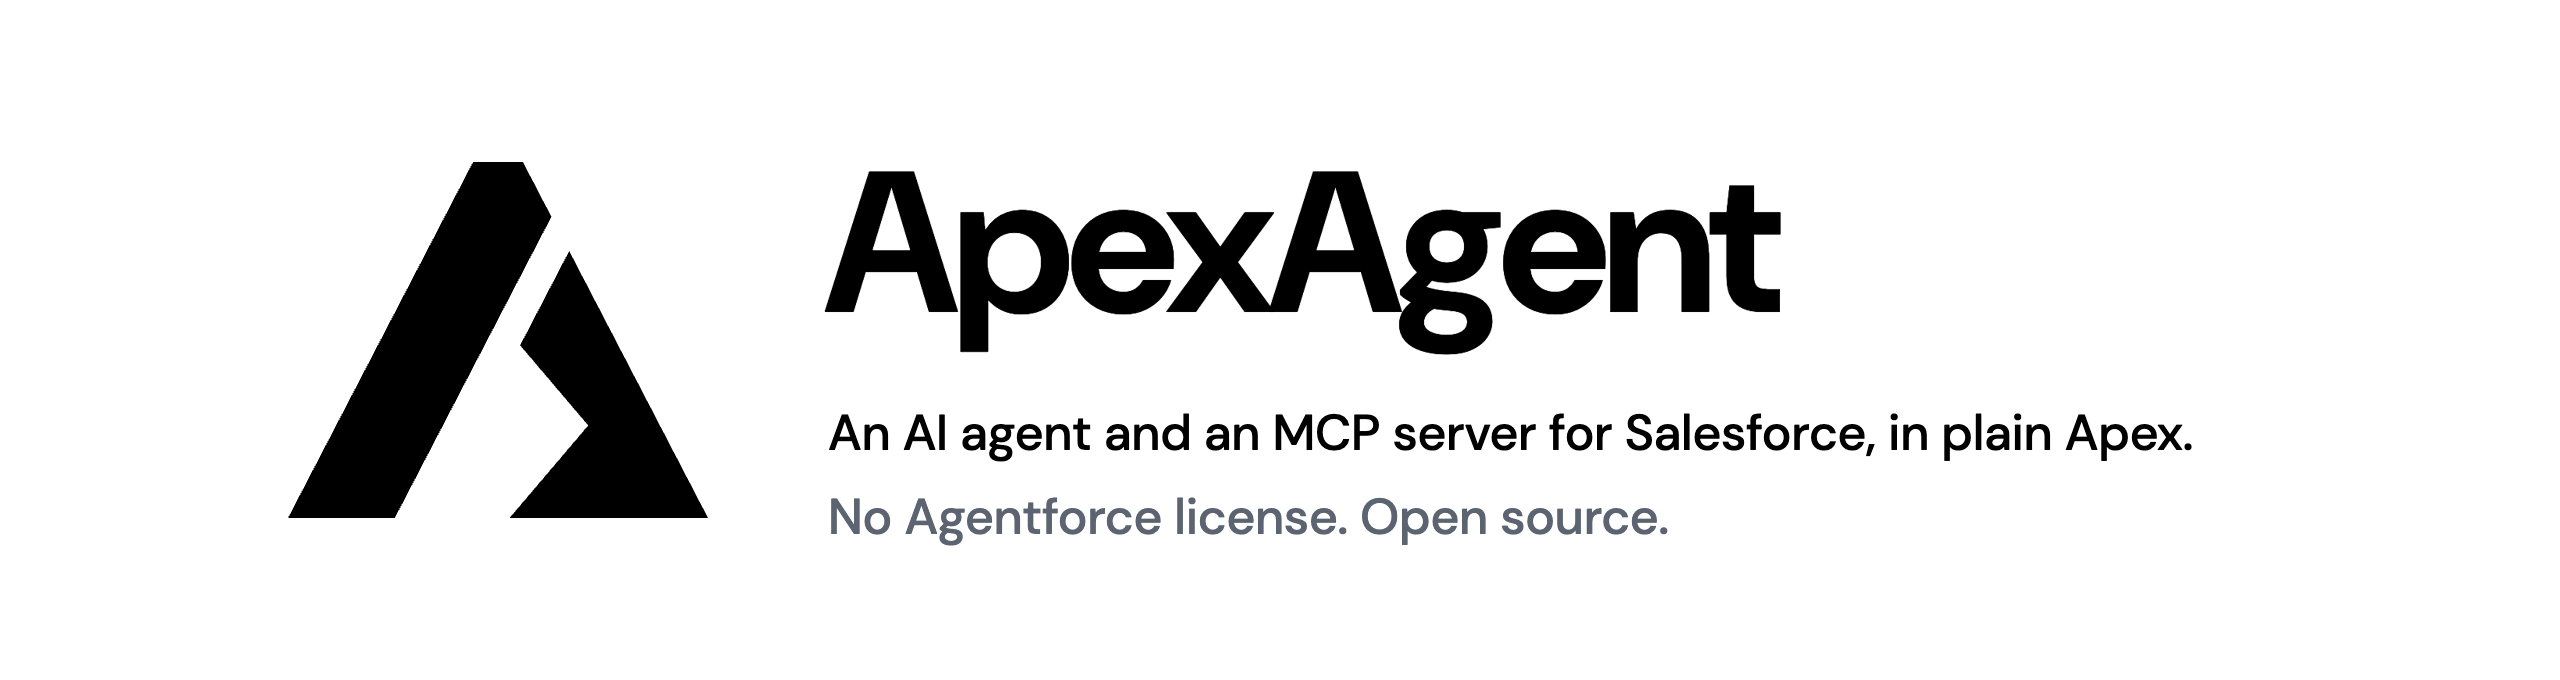
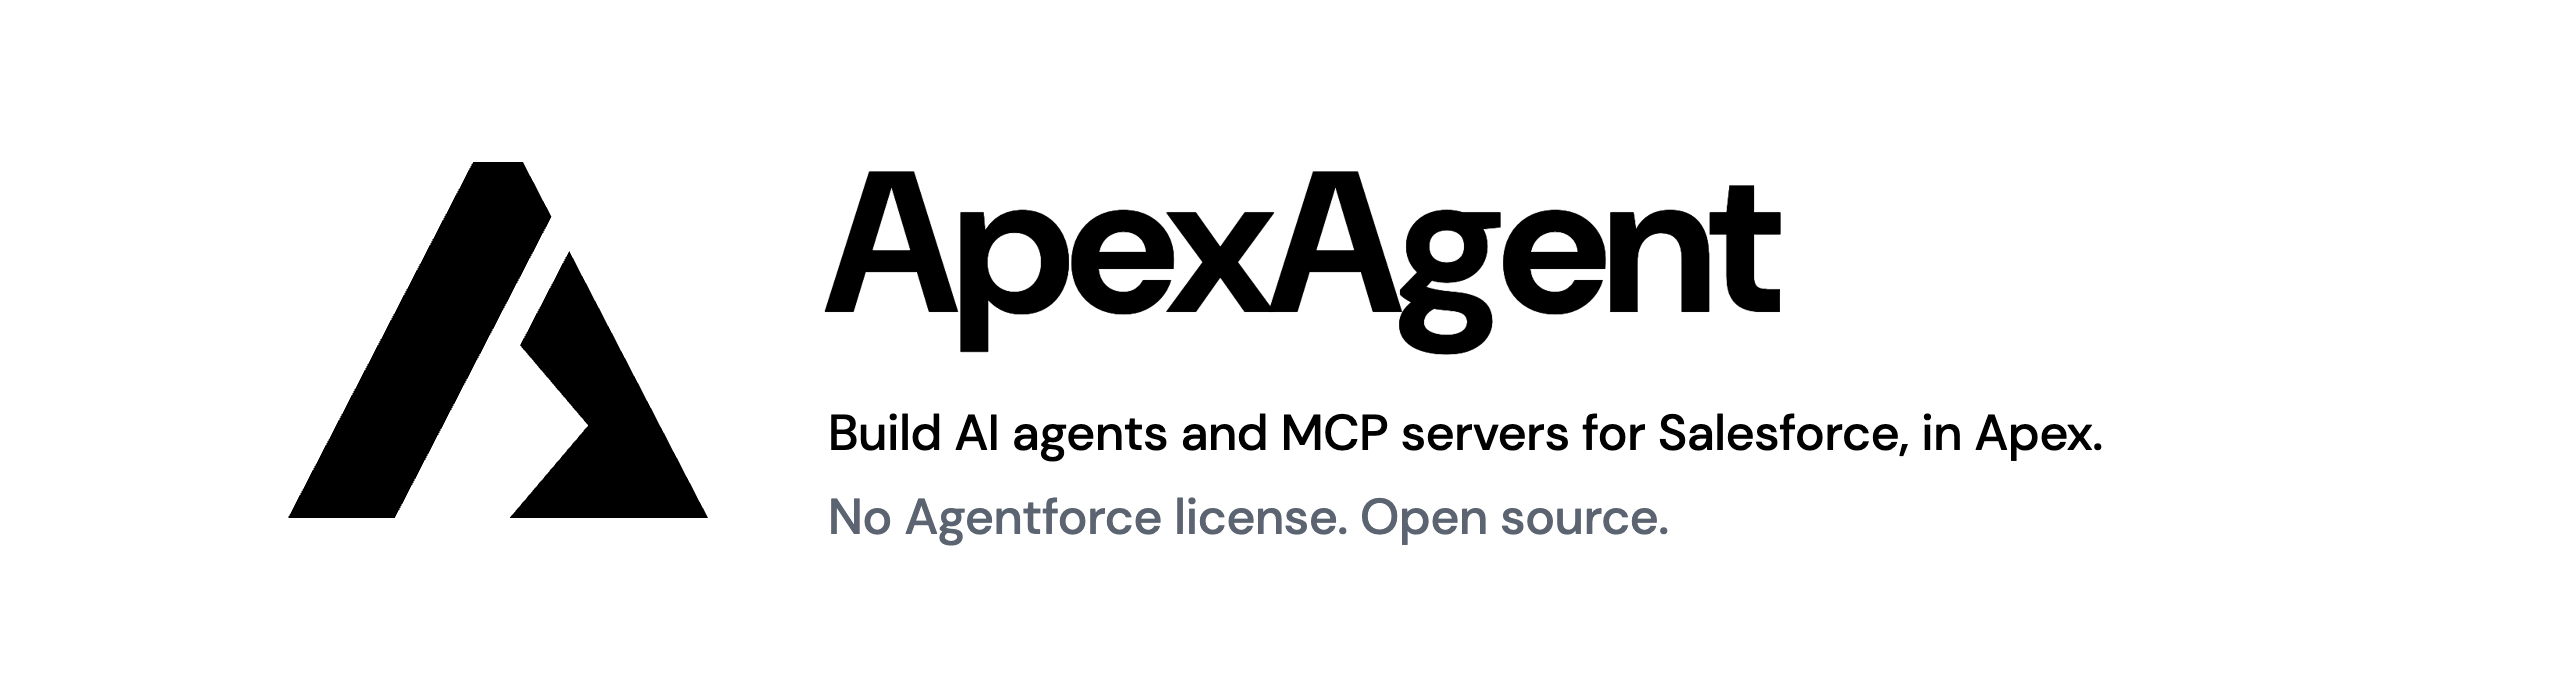
docs: lead with "Build AI agents and MCP servers for Salesforce, in Apex"
- New headline on the homepage, in the page title and description, the
  share image, the GitHub social preview and the README banners
- Homepage lede: it comes with a working agent and MCP server, and you add
  your own tools as Apex classes
- README and overview: the running-cost note is split into the agent and the
  MCP server, so Salesforce's announced metering of outside AI agents reads
  as applying to MCP calls only

Claude-Session: https://claude.ai/code/session_01VeHJ38P5UUSsodD1mJkPfm

Changed region(s): [[0.3125, 0.5868, 0.875, 0.6794]]

diff --git a/README.md b/README.md
@@ -3,7 +3,7 @@
 <p align="center">
   <picture>
     <source media="(prefers-color-scheme: dark)" srcset="assets/banner-dark.png">
-    <img src="assets/banner-light.png" alt="ApexAgent: an AI agent and an MCP server for Salesforce, built in plain Apex. No Agentforce license. Open source." width="820">
+    <img src="assets/banner-light.png" alt="ApexAgent: build AI agents and MCP servers for Salesforce, in Apex. No Agentforce license. Open source." width="820">
   </picture>
 </p>
 
@@ -11,7 +11,9 @@
 
 > 💡 **No extra Salesforce licensing.** ApexAgent uses only standard platform features: Apex, custom objects, Lightning Web Components and a Salesforce Site. It needs **no Agentforce license, no Einstein add-on and no Data Cloud**. It runs in Developer, Enterprise, Performance and Unlimited Edition orgs.
 >
-> The agent's running cost is the AI model: you pay your model provider directly for what you use, and ApexAgent adds nothing. The MCP server brings no model of its own; the model belongs to the client that connects. Each request uses one of your org's ordinary API requests today. Salesforce has [announced](https://help.salesforce.com/s/articleView?language=en_US&id=005360285&type=1) that calls from AI agents, over MCP or the API, will be billed in Flex Credits once it sets a rate, and that would apply here too.
+> **The agent:** its running cost is the AI model. You pay your model provider directly for what you use, and ApexAgent adds nothing. The agent runs inside your org and calls the model from Apex; it doesn't connect to Salesforce as an outside AI client.
+>
+> **The MCP server:** it brings no model of its own; the model belongs to the client that connects, such as Claude or ChatGPT. Each request uses one of your org's ordinary API requests today. Salesforce has [announced](https://help.salesforce.com/s/articleView?language=en_US&id=005360285&type=1) that calls from outside AI agents like these, over MCP or the API, will be billed in Flex Credits once it sets a rate, and that would apply to MCP calls here too.
 
 Everything deploys into your org and runs with your users' own permissions. There is no middleware and no external server to host.
 
